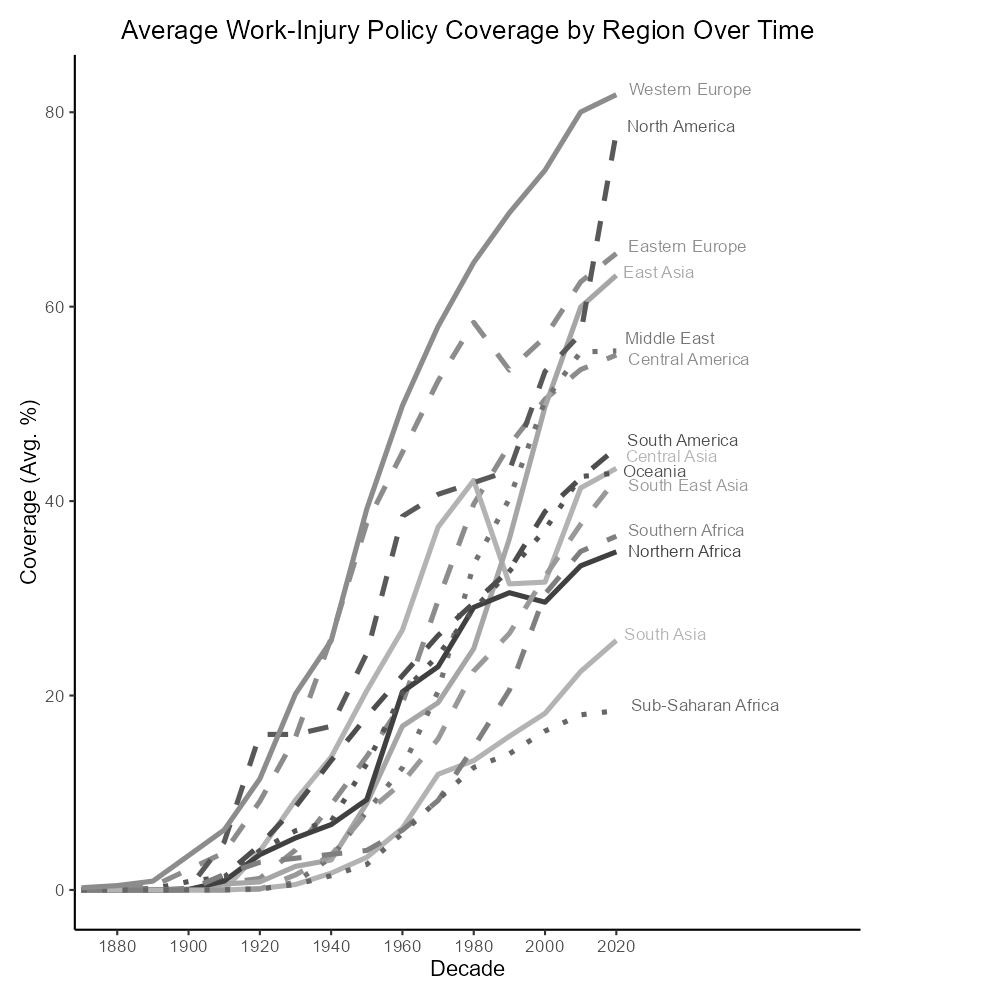
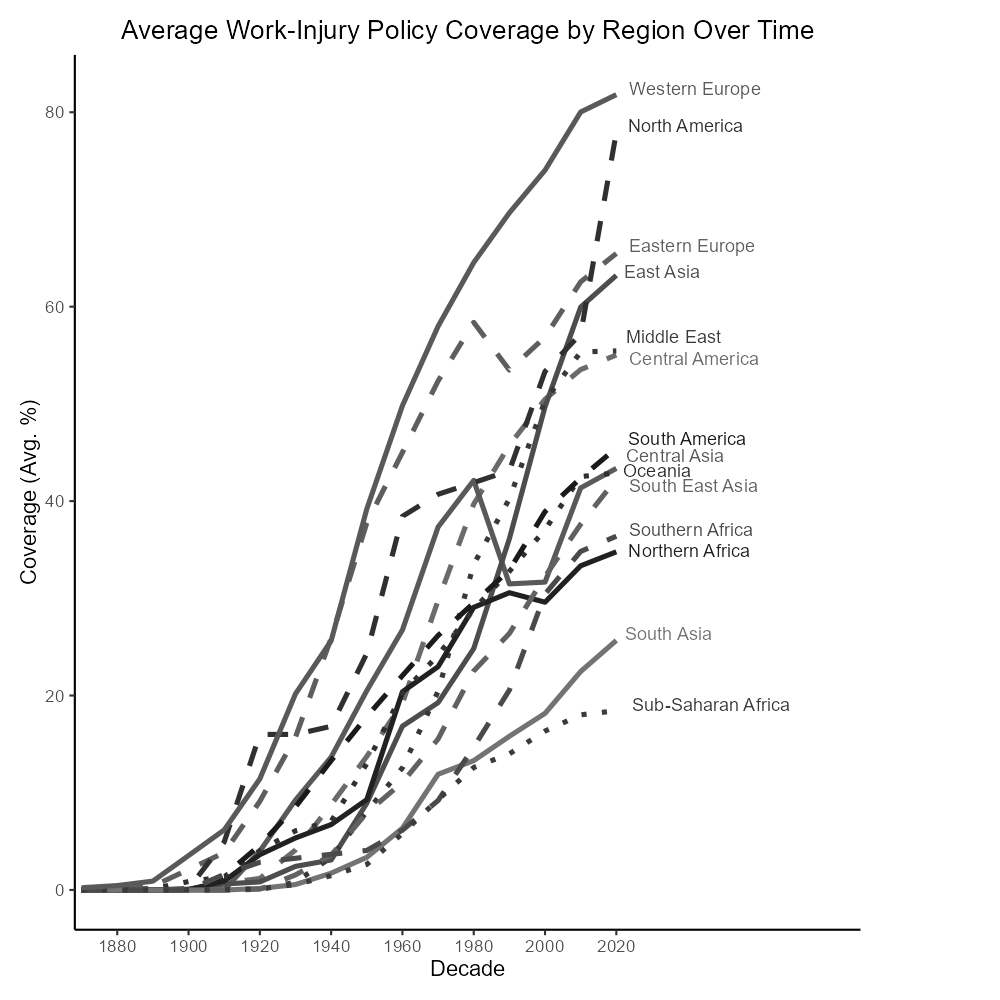
Final edits before chapter submission

diff --git a/README.md b/README.md
@@ -1,5 +1,20 @@
-## Global-Work Injury Policy (GWIP) Longitudinal Data v1.0 (gwip_long)
+## Inclusive Welfare State Research and the Global-Work Injury Policy (GWIP) Longitudinal Data v1.0 (gwip_long)
 
-## Workflow for Book Chapter "Inclusive Welfare State Research: Longitudinal Work-Injury Policy Data in 188 Countries Since the Industrial Revolution"
+Repository for:
+
+Breznau, Nate. “Inclusive Welfare State Research: Longitudinal Work-Injury Policy Data in 188 Countries Since the Industrial Revolution”. Pp. na-na in Maureen A. Eger (ed.) A Research Agenda for the Political Sociology of Welfare. Edward Elgar, UK. 
+
+Preprint:
+
+https://osf.io/preprints/socarxiv/qmcja_v2
+
+Data Source:
+
+Breznau, Nate; Lanver, Felix, 2020, "Global Work-Injury Policy Database (GWIP)", Harvard Dataverse, V7, https://doi.org/10.7910/DVN/IVKYIE
+
+
+Part of the SFB 1342 "The Global Dynamics of Social Policy" at the University of Bremen.
+
+
 
 
